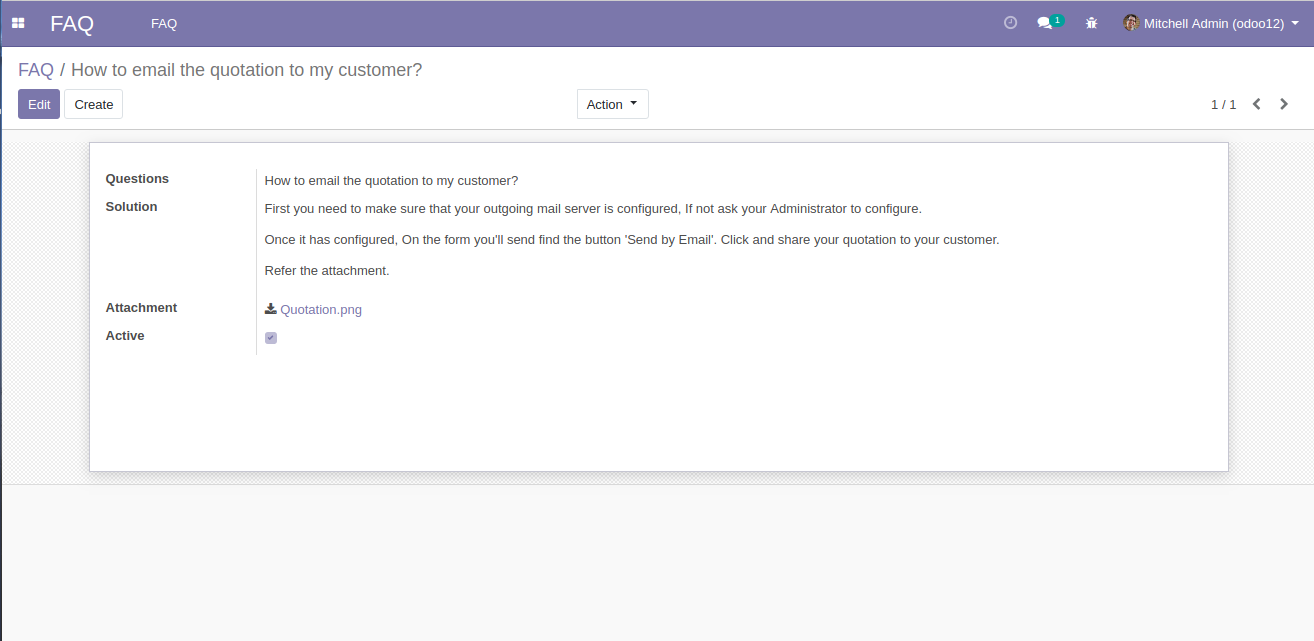
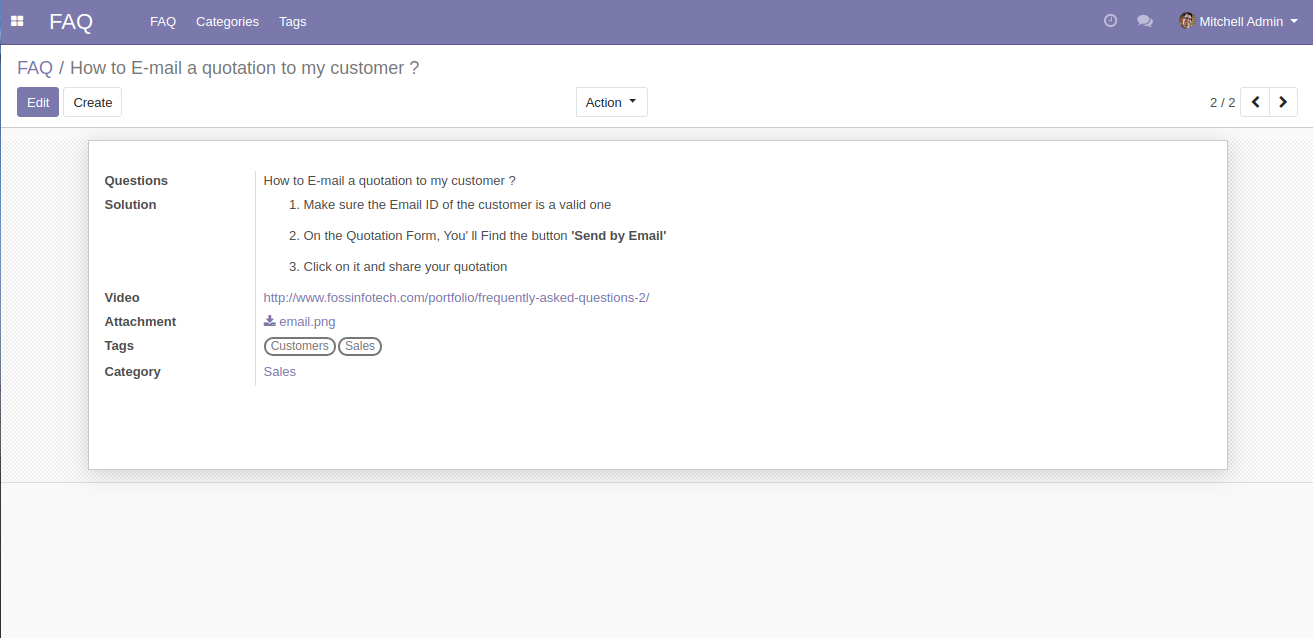
FAQ Modified

diff --git a/foss_faq/static/description/index.html b/foss_faq/static/description/index.html
@@ -6,7 +6,7 @@
 
 <section>
     <div class="oe_row oe_spaced" >
-        <p class="oe_slogan" style="color:#875A7B; font-size:20px; font-weight:300;"><b>The Main Idea:</b></p>
+        <p class="oe_slogan" style="color:#875A7B; font-size:20px; font-weight:300;"><b>Overview</b></p>
         <p class="oe_mt32">
             This Application helps you store valubale information that your employees ask about the Products and services. 
         </p>
@@ -17,7 +17,8 @@
     <div class="oe_row oe_spaced">
         <p class="oe_slogan" style="color:#875A7B; font-size:20px; font-weight:300;"><b>Key Features:</b></p>
         <ul>
-            <li>You can add up attachments</li>
+            <li>You can add up attachments and add URL Links</li>
+            <li>Tags and categories Added</li>
             <li>Facilitates to use the system Better</li>
         </ul>
     </div>
@@ -33,9 +34,43 @@
     <div class="oe_row oe_spaced">
         <p class="oe_mt32">
             <ul>
-                <li>Post FAQs and their answers.</li>
-                <li>Add up attachments for reference</li>
-                <li>Uncheck 'Active' if the question or answer is no longer valid.</li>
+                <li>Create Your categories and Option Provided to create your FAQs under the 'Questions' Tab or you can directly create them in the FAQ Menu by tagging the category.</li>
+            </ul>
+        </p>
+        <div class="oe_row_img oe_centered oe_mt32">
+            <img class="oe_picture" src="images/category.png" style="width:711.45px;height:400px;">
+        </div>
+    </div>
+</section>
+
+<section class="oe_container oe_dark">
+    <div class="oe_row oe_spaced">
+        <p class="oe_mt32">
+            <ul>
+                <li>
+                    To create Tags, Go to FAQ --> 'Tags' --> Click 'Create'.
+                </li>
+            </ul>
+        </p>
+        <div class="oe_row_img oe_centered oe_mt32">
+            <img class="oe_picture" src="images/tag.png" style="width:711.45px;height:400px;">
+        </div>
+    </div>
+</section>
+
+<section class="oe_container oe_dark">
+    <div class="oe_row oe_spaced">
+        <p class="oe_mt32">
+            <ul>
+                <li>
+                    To create FAQs , Go to FAQ --> Click 'Create'.
+                </li>
+                <li>
+                    Post your questions and answers, You can leave URL Links and attachments for references.
+                </li>
+                <li>
+                    You can tag Categories and Tags as depiected in the below image.
+                </li>
             </ul>
         </p>
         <div class="oe_row_img oe_centered oe_mt32">

diff --git a/foss_faq/__manifest__.py b/foss_faq/__manifest__.py
@@ -2,13 +2,13 @@
 # Part of Odoo. See LICENSE file for full copyright and licensing details.
 {
     'name': 'Frequently Asked Questions',
-    'version': '12.0.0.0.0',
+    'version': '12.0.1.1',
     'summary': 'Create FAQs',
     'author': 'FOSS INFOTECH PVT LTD',
     'license': 'AGPL-3',
     'category': 'FAQ',
     'website': 'http://www.fossinfotech.com',
-    'description': """ 
+    'description': """
         It enables the feature for FAQ.
         """,
     'depends': [
@@ -18,6 +18,8 @@
         'security/faq_security.xml',
         'security/ir.model.access.csv',
         'views/faq_view.xml',
+        'views/category.xml',
+        'views/tag.xml',
     ],
     'images': [
         'static/description/banner.png',

diff --git a/foss_faq/models/category.py b/foss_faq/models/category.py
@@ -1,0 +1,13 @@
+# -*- coding: utf-8 -*-
+# Part of Odoo. See LICENSE file for full copyright and licensing details.
+
+from odoo import api, fields, models, _
+
+
+# Additional Model 11/09/19
+class FaqCategory(models.Model):
+    _name = "faq.category"
+    _description = "Frequently Asked Question's Category"
+
+    name = fields.Char(required=True)
+    question_ids = fields.One2many('faq.faq', 'category_id', string='Questions')

diff --git a/foss_faq/models/faq.py b/foss_faq/models/faq.py
@@ -15,3 +15,8 @@ class FaqFaq(models.Model):
     solution = fields.Html(string="Solution", track_visibility="always")
     attachment = fields.Binary(string="Attachment")
     filename = fields.Char(string="Filename")
+
+    # Additional Fields 11/09/19
+    tag_ids = fields.Many2many('faq.tag', string='Tags')
+    category_id = fields.Many2one('faq.category', string='Category')
+    video = fields.Char()

diff --git a/foss_faq/models/tag.py b/foss_faq/models/tag.py
@@ -1,0 +1,13 @@
+# -*- coding: utf-8 -*-
+# Part of Odoo. See LICENSE file for full copyright and licensing details.
+
+from odoo import api, fields, models, _
+
+
+# Additional Model 11/09/19
+class FaqTag(models.Model):
+    _name = "faq.tag"
+    _description = "Frequently Asked Question's Tag"
+
+    name = fields.Char(required=True)
+    color = fields.Integer("Color Index")

diff --git a/foss_faq/models/__init__.py b/foss_faq/models/__init__.py
@@ -1,6 +1,8 @@
 # -*- coding: utf-8 -*-
 # Part of Odoo. See LICENSE file for full copyright and licensing details.
 
+from . import tag
+from . import category
 from . import faq
 
 

diff --git a/foss_faq/doc/index.rst b/foss_faq/doc/index.rst
@@ -1,0 +1,27 @@
+Installation
+------------
+
+- Backup your Odoo
+
+- After purchase you will receive a receipt with a link to download the module
+
+- Extract the module and upload (place it) into your "custom modules" folder
+
+- Restart the Odoo server
+
+- Log in to Odoo and activate the developer mode
+
+- Go to "Apps" tab and click "Update Apps list"
+
+- Find the module and hit the "Install" button
+
+- Restart Odoo
+
+- Feel free to contact to get a tutorials on how to install modules on different systems
+
+Compatibility
+------------
+
+- Fully Supports Odoo Version 12.0 Community
+
+- Module tested on clean Odoo installation, no errors detected

diff --git a/foss_faq/doc/changelog.rst b/foss_faq/doc/changelog.rst
@@ -1,0 +1,13 @@
+.. _changelog:
+
+Changelog
+=========
+`Version 1.1 (2019)`
+-------------------------
+- Added Tags (many2many) to the answer (also on the kanban view)
+- Category (only one per question)
+- Added URL field above the Attachment ("Video")
+
+`Version 1.0 (2019)`
+-------------------------
+- First release for Odoo 12.0.
